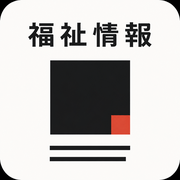
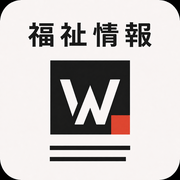
P40-1/2: アイコン差し替え（?v=2キャッシュ対策）・サイド欄スクロールバーを一覧と同じ薄さに＋タブ4案モック
- 新アイコン5ファイル差し替え・参照に版クエリ（favicon専用キャッシュ対策）
- .rail-col の scrollbar-color を .listscroll と統一
- mock-p40-tabs.html: 現行＋案A〜D（判断用・決定後に削除）

Changed region(s): [[0.3333, 0.4167, 0.6667, 0.6944], [0.4167, 0.1389, 0.4444, 0.1944]]

diff --git a/mock-p40-tabs.html b/mock-p40-tabs.html
@@ -1,0 +1,175 @@
+<!doctype html>
+<html lang="ja">
+<head>
+<meta charset="utf-8">
+<meta name="viewport" content="width=device-width, initial-scale=1">
+<title>P40-5 タブ案の比較（モック）</title>
+<style>
+  :root{
+    --ink:#17181a; --sub:#75716b; --faint:#a8a49d; --rule:#e6e3de;
+    --paper:#fcfcfb; --high:#a04a32; --press-bg:#f5f3ef; --box:#f6f5f1;
+  }
+  *{margin:0;padding:0;box-sizing:border-box}
+  body{background:#efede8;color:var(--ink);
+    font-family:"Hiragino Kaku Gothic ProN","Hiragino Sans","BIZ UDPGothic",Meiryo,sans-serif;
+    font-size:16px;line-height:1.7;-webkit-font-smoothing:antialiased;padding:26px 14px 80px}
+  .note{max-width:760px;margin:0 auto 22px;font-size:13px;color:var(--sub);line-height:1.9}
+  .note b{color:var(--ink)}
+  .case{max-width:760px;margin:0 auto 34px;background:var(--paper);
+    border:1px solid var(--rule);padding:0 26px 22px}
+  .case-h{font-size:12px;font-weight:700;letter-spacing:.18em;color:#fff;background:var(--ink);
+    margin:0 -26px 0;padding:7px 14px}
+  .case-note{font-size:12px;color:var(--sub);line-height:1.85;margin-top:14px;
+    border-top:1px dashed var(--rule);padding-top:10px}
+  .case-note b{color:var(--ink)}
+
+  /* ==== 共通の紙面コンテキスト（題字・太罫・日付見出しの冒頭） ==== */
+  .masthead{text-align:center;padding:14px 0 11px;border-bottom:3px double var(--ink)}
+  .masthead h1{font-size:30px;font-weight:700;letter-spacing:.34em;text-indent:.34em;line-height:1.2}
+  .masthead .sub{font-size:10.5px;color:var(--sub);letter-spacing:.16em;margin-top:5px}
+  .ticker{display:flex;align-items:center;gap:10px;background:var(--press-bg);
+    padding:5px 12px;overflow:hidden;margin-top:0}
+  .ticker .tl{flex:0 0 auto;font-size:10px;font-weight:600;letter-spacing:.22em;
+    color:var(--sub);border-right:1px solid var(--rule);padding-right:10px}
+  .ticker .tt{font-size:11.5px;color:var(--ink);white-space:nowrap;overflow:hidden}
+  .dayhead{border-top:2px solid var(--ink);padding-top:12px;margin-top:22px;
+    display:flex;justify-content:space-between;align-items:baseline}
+  .dayhead h2{font-size:26px;letter-spacing:.02em}
+  .dayhead .c{font-size:12.5px;color:var(--sub)}
+  .stub{color:var(--faint);font-size:12.5px;padding:10px 0 0}
+
+  /* ==== 現行（比較用） ==== */
+  .t0{display:flex;gap:8px;padding:8px 0 10px}
+  .t0 button{appearance:none;background:none;font:inherit;cursor:pointer;
+    padding:7px 16px 6px;font-size:13px;letter-spacing:.22em;color:var(--sub);
+    border:1.5px solid var(--rule);white-space:nowrap}
+  .t0 button.on{border-color:var(--ink);background:var(--box);color:var(--ink);font-weight:700}
+
+  /* ==== 案A セグメンテッドコントロール型 ==== */
+  .tA{display:inline-flex;border:1.5px solid var(--ink);margin:8px 0 10px}
+  .tA button{appearance:none;background:var(--paper);font:inherit;cursor:pointer;
+    padding:7px 20px 6px;font-size:13px;letter-spacing:.22em;color:var(--sub);border:0;
+    border-left:1px solid var(--rule);white-space:nowrap}
+  .tA button:first-child{border-left:0}
+  .tA button.on{background:var(--ink);color:#fff;font-weight:700}
+  .tA button:not(.on):hover{color:var(--ink)}
+
+  /* ==== 案B 面名標カード型（フォルダタブ） ==== */
+  .tBwrap{padding:8px 0 0}
+  .tB{display:flex;gap:6px;align-items:flex-end;margin-bottom:-2px;position:relative;z-index:1}
+  .tB button{appearance:none;font:inherit;cursor:pointer;white-space:nowrap;
+    padding:6px 18px 5px;font-size:12.5px;letter-spacing:.22em;color:var(--sub);
+    background:var(--box);border:1px solid var(--rule);border-bottom:0}
+  .tB button.on{background:var(--paper);border:2px solid var(--ink);border-bottom:2px solid var(--paper);
+    color:var(--ink);font-weight:700;padding:8px 18px 6px;font-size:13px}
+  .tB button:not(.on):hover{color:var(--ink)}
+  .tB-rule{border-top:2px solid var(--ink)}
+  .tBwrap .stub{padding-top:12px}
+  /* 案Bでは日付見出しの太罫はタブの罫が兼ねる（二重にしない） */
+  .tBwrap .dayhead{border-top:0;margin-top:0;padding-top:14px}
+
+  /* ==== 案C 角ピル型（角丸は控えめ3px） ==== */
+  .tC{display:flex;gap:10px;padding:8px 0 10px}
+  .tC button{appearance:none;font:inherit;cursor:pointer;white-space:nowrap;
+    padding:7px 20px 6px;font-size:13px;letter-spacing:.22em;color:var(--sub);
+    background:var(--paper);border:1px solid var(--sub);border-radius:999px}
+  .tC button.on{background:var(--ink);border-color:var(--ink);color:#fff;font-weight:700}
+  .tC button:not(.on):hover{color:var(--ink);border-color:var(--ink)}
+
+  /* ==== 案D 押しボタン型（オフセット影＝物理ボタンの意匠） ==== */
+  .tD{display:flex;gap:12px;padding:8px 0 12px}
+  .tD button{appearance:none;font:inherit;cursor:pointer;white-space:nowrap;
+    padding:7px 18px 6px;font-size:13px;letter-spacing:.22em;color:var(--ink);
+    background:var(--paper);border:1px solid var(--ink);
+    box-shadow:2px 2px 0 var(--ink);transform:translate(0,0)}
+  .tD button.on{background:var(--box);font-weight:700;
+    box-shadow:none;transform:translate(2px,2px)}
+  .tD button:not(.on):hover{background:var(--box)}
+</style>
+</head>
+<body>
+
+<div class="note">
+  <b>P40-5 タブ案の比較。</b>各案のタブは押して切り替えられます（選択の見え方を確かめる用）。
+  文言・字送り・墨と朱の2色・角の扱いは本体と同じ条件で組んでいます。
+  これまでに検討済みの「下線式（P29前）・囲み罫（現行C3）・地色」とは別の方向の4案です。
+</div>
+
+<div class="case">
+  <div class="case-h">現行（C3・囲み罫＋地色）── 比較の基準</div>
+  <div class="masthead"><h1>福祉情報ウォッチ</h1><div class="sub">こども家庭庁・厚生労働省・WAM NET・福岡県 ── 行政と全国団体の福祉情報を毎朝ひとまわり</div></div>
+  <nav class="t0 tabs"><button class="on">紙　面</button><button>助　成</button><button>研　修</button></nav>
+  <div class="ticker"><span class="tl">報道</span><span class="tt">介護ニュースJoint　外国人の在留手数料、10月から大幅引き上げ…</span></div>
+  <div class="dayhead"><h2>8月26日 <small style="font-size:13px;color:var(--sub)">（水）</small></h2><span class="c">新着10件</span></div>
+  <div class="stub">（記事一覧…）</div>
+  <div class="case-note">現行: 選択＝墨枠＋薄地＋太字／非選択＝薄罫。「押せる」の合図が枠の濃淡だけ。</div>
+</div>
+
+<div class="case">
+  <div class="case-h">案A　セグメンテッドコントロール型</div>
+  <div class="masthead"><h1>福祉情報ウォッチ</h1><div class="sub">こども家庭庁・厚生労働省・WAM NET・福岡県 ── 行政と全国団体の福祉情報を毎朝ひとまわり</div></div>
+  <nav class="tA tabs"><button class="on">紙　面</button><button>助　成</button><button>研　修</button></nav>
+  <div class="ticker"><span class="tl">報道</span><span class="tt">介護ニュースJoint　外国人の在留手数料、10月から大幅引き上げ…</span></div>
+  <div class="dayhead"><h2>8月26日 <small style="font-size:13px;color:var(--sub)">（水）</small></h2><span class="c">新着10件</span></div>
+  <div class="stub">（記事一覧…）</div>
+  <div class="case-note"><b>3枚が1つの切替器につながる型</b>（iOS/計器類の定番）。外枠は墨1.5px・区切りは薄罫・
+  選択＝墨ベタ白抜き。「3つで1組・今どこか」が構造で伝わる。P29で見送った“単独の墨ベタ”と違い、
+  切替器の中の現在位置なので重心の偏りが出にくい。面が増えたら右に1枚足すだけ。</div>
+</div>
+
+<div class="case">
+  <div class="case-h">案B　面名標カード型（フォルダタブ）</div>
+  <div class="masthead"><h1>福祉情報ウォッチ</h1><div class="sub">こども家庭庁・厚生労働省・WAM NET・福岡県 ── 行政と全国団体の福祉情報を毎朝ひとまわり</div></div>
+  <div class="tBwrap">
+    <nav class="tB tabs"><button class="on">紙　面</button><button>助　成</button><button>研　修</button></nav>
+    <div class="tB-rule"></div>
+    <div class="ticker" style="margin-top:0"><span class="tl">報道</span><span class="tt">介護ニュースJoint　外国人の在留手数料、10月から大幅引き上げ…</span></div>
+    <div class="dayhead"><h2>8月26日 <small style="font-size:13px;color:var(--sub)">（水）</small></h2><span class="c">新着10件</span></div>
+    <div class="stub">（記事一覧…）</div>
+  </div>
+  <div class="case-note"><b>選択中のタブが紙面と物理的につながる型</b>（書類のインデックス・ブラウザのタブ）。
+  選択＝墨2px枠が下の太罫と一体化し「今この面が開いている」を構造で示す。非選択＝薄地で一段奥。
+  紙もの（インデックス付きファイル）の比喩なので新聞の意匠と相性がよい。
+  ⚠タブの罫が面見出しの太罫を兼ねるため、日付見出しの上の太罫は外す（二重罫にしない）。</div>
+</div>
+
+<div class="case">
+  <div class="case-h">案C　ピル型（角丸は控えめ）</div>
+  <div class="masthead"><h1>福祉情報ウォッチ</h1><div class="sub">こども家庭庁・厚生労働省・WAM NET・福岡県 ── 行政と全国団体の福祉情報を毎朝ひとまわり</div></div>
+  <nav class="tC tabs"><button class="on">紙　面</button><button>助　成</button><button>研　修</button></nav>
+  <div class="ticker"><span class="tl">報道</span><span class="tt">介護ニュースJoint　外国人の在留手数料、10月から大幅引き上げ…</span></div>
+  <div class="dayhead"><h2>8月26日 <small style="font-size:13px;color:var(--sub)">（水）</small></h2><span class="c">新着10件</span></div>
+  <div class="stub">（記事一覧…）</div>
+  <div class="case-note"><b>いまのWebで最も「ボタン」と読まれる型</b>（丸み＝押せるの学習が強い）。
+  選択＝墨ベタ白抜き。⚠本体は全要素が直角（border-radius:0）のため、
+  丸をここにだけ持ち込むと新聞の意匠から浮く懸念がある。候補として提示するが推奨はしない。</div>
+</div>
+
+<div class="case">
+  <div class="case-h">案D　押しボタン型（オフセット影）</div>
+  <div class="masthead"><h1>福祉情報ウォッチ</h1><div class="sub">こども家庭庁・厚生労働省・WAM NET・福岡県 ── 行政と全国団体の福祉情報を毎朝ひとまわり</div></div>
+  <nav class="tD tabs"><button>紙　面</button><button class="on">助　成</button><button>研　修</button></nav>
+  <div class="ticker" hidden></div>
+  <div class="dayhead"><h2>いま応募できる助成</h2><span class="c">8件</span></div>
+  <div class="stub">（助成一覧…）</div>
+  <div class="case-note"><b>物理ボタンの型</b>: 非選択＝右下に墨のオフセット影（浮いている＝押せる）／
+  選択＝影が消えて2pxめり込む（押し込まれている）。ボタンであることは4案で最も明瞭。
+  影も墨のみ＝2色は守る。⚠遊びのある意匠なので、報の緊張感とのバランスは好みが分かれる。</div>
+</div>
+
+<div class="note">
+  すべての案で: 墨と朱の2色のみ（朱は使っていない＝選択は墨で示す。朱は「対応が要る」の
+  意味に温存）・幅320pxでも3枚が1行に収まることを確認済み・面が増えたら横スクロール（現行の型）を踏襲可能。
+</div>
+
+<script>
+  document.querySelectorAll(".tabs").forEach((nav) => {
+    nav.addEventListener("click", (e) => {
+      const b = e.target.closest("button");
+      if (!b) return;
+      nav.querySelectorAll("button").forEach((x) => x.classList.toggle("on", x === b));
+    });
+  });
+</script>
+</body>
+</html>

diff --git a/index.html b/index.html
@@ -7,10 +7,12 @@
 <meta name="description" content="福祉に関わる行政の公開情報を毎朝自動巡回し、AIが要約と重要度を付けて記録しています。">
 <!-- P33: アイコン。⚠パスは相対にする（github.io のサブパス配信でもカスタムドメインの
      ルート配信でも同じHTMLが効くように。絶対パス /favicon… はサブパスで404になる） -->
-<link rel="icon" type="image/png" sizes="32x32" href="favicon-32.png">
-<link rel="icon" type="image/png" sizes="16x16" href="favicon-16.png">
-<link rel="apple-touch-icon" href="apple-touch-icon.png">
-<link rel="manifest" href="manifest.webmanifest">
+<!-- ?v=2 はキャッシュ対策(P40)。ファビコンはブラウザが専用キャッシュで長く保持するため、
+     同名で差し替えるときはURL（クエリ）を変えて確実に取り直させる。次回差し替え時は v=3 に -->
+<link rel="icon" type="image/png" sizes="32x32" href="favicon-32.png?v=2">
+<link rel="icon" type="image/png" sizes="16x16" href="favicon-16.png?v=2">
+<link rel="apple-touch-icon" href="apple-touch-icon.png?v=2">
+<link rel="manifest" href="manifest.webmanifest?v=2">
 <style>
   :root{
     --ink:#17181a; --sub:#75716b; --faint:#a8a49d; --rule:#e6e3de;
@@ -238,9 +240,14 @@
     .listscroll::-webkit-scrollbar{width:8px}
     .listscroll::-webkit-scrollbar-thumb{background:var(--rule)}
     .listscroll::-webkit-scrollbar-track{background:transparent}
-    /* サイド欄は独立して貼り付く（P37から継続）。画面より背が高い日は欄内スクロール */
+    /* サイド欄は独立して貼り付く（P37から継続）。画面より背が高い日は欄内スクロール。
+       P40: スクロールバーの濃さは一覧側（.listscroll）と同じ薄さに揃える */
     .rail-col{position:sticky;top:0;align-self:start;
-      max-height:100vh;overflow-y:auto;scrollbar-width:thin}
+      max-height:100vh;overflow-y:auto;scrollbar-width:thin;
+      scrollbar-color:var(--rule) transparent}
+    .rail-col::-webkit-scrollbar{width:8px}
+    .rail-col::-webkit-scrollbar-thumb{background:var(--rule)}
+    .rail-col::-webkit-scrollbar-track{background:transparent}
   }
 
   /* --- 本文 --- */

diff --git a/fukushi-watch-handoff.md b/fukushi-watch-handoff.md
@@ -345,55 +345,7 @@
 
 > P30の記録は fukushi-watch-archive-2026-08.md へ原文のまま移設した（維持規則・2026-08-26）。
 
-## 2026-08-25（P31・助成面の再調整5点）
-
-- **[DECISION] タブは案C系統の「C3」で実装**（選択中＝墨1.5px枠＋薄い地色#f6f5f1＋太字／
-  非選択＝薄い罫の枠＋薄墨・**数字は廃止**）。ユーザーの返答は「案C」で、C1/C2/C3のうち
-  推奨したC3と解釈して実装した。⚠**C1へは `.view.on` の background を外すだけ、
-  C2へは `.view` の border-color を transparent にするだけ**で移れる（CSSコメントに明記）。
-  4面×320pxで折り返さず横スクロールになることを実測。タブは固定ヘッダーの外＝86px不変。
-- **[DECISION] スマホの絞り込みは、分野・用途を**ネイティブの `<select>` 2つ**で左右に一列**
-  （ユーザー指示・OSの選択UIで選ぶ形）。P29のアコーディオンは廃止。閉じていても値が
-  select自体に見える。**PCは1行チップを維持**（全選択肢が一覧でき1クリックで切替できるため）。
-  チップとselectは同じ state を読み書きし、双方向に同期する（出し分けはCSSの幅だけ）。
-  ⚠**selectの文字は16pxにする**（16px未満だとiOSがフォーカス時に画面を拡大する・
-  落とし穴チェックリスト）。
-- **[DECISION] UIのラベルは最小限にする（今後も適用する一般原則・ユーザー指示）。**
-  文脈から予想できる語は書かない。実施: 社会福祉法人トグルのラベルを
-  「社会福祉法人が応募できるものだけ」→**「社会福祉法人」だけ**にした（PC・スマホ共通）。
-  意味の説明はサイド欄の注意書きが担う。
-- **[DECISION] 明滅は2秒周期・濃度1⇄0.25に**（P30の4秒・1⇄0.5から。ユーザー指示の
-  「2倍の速さ・2倍の濃さ」）。reduced-motion の静止は維持。
-- **[DECISION] 注意書きはサイド欄（スマホはメニュー内）の「記号の見かた」の隣に畳んで置く**
-  （P30の「絞り込みと項目の間に畳む」は不採用・ユーザー判断）。凡例と注意書きは同じ性質
-  （読み方の説明）のため。`#boxGrantNote`＝助成面のときだけ表示。
-  各項目の「応募の条件」展開内の注記は維持（そちらが実際に読まれる場所）。
-- **[DECISION] 社会福祉法人トグルは既定オン**（使用者は基本的に社会福祉法人のため）。
-  **保存値がある人はそれを尊重**——`APPLI_KEY` はトグルを実際に触ったときにしか書かれないので、
-  保存値＝本人の明示的な選択。無い人だけ既定オン（`?? "1"` の1行）。
-- **[DECISION] トグルの意味を「記載なしは表示」に変えた（重要な仕様修正）。**
-  ⚠従来の実装は**記載なし（applicants空）もトグルで落としていた**——P31の指示にあった
-  「現在の仕様（記載なしは表示）」という認識と**逆**だった。既定オン化とセットで、
-  **落とすのは「応募主体が読み取れていて社会福祉法人を含まない」ものだけ**に修正。
-  理由: ①空＝「読み取れなかった」であって「応募できない」ではない（P24の意味づけ）
-  ②旧仕様のまま既定オンにすると10件中3件しか出ず、「対象なのに見えない」がP28で警告した
-  実害そのものになる。実測: 既定オンで**8件／全10件**（隠れるのは認定NPO・アジア生協の
-  「社福を含まない明記あり」2件だけ。小児医療など記載なし5件は表示）。
-- **[DECISION] 「記載なしは表示」への仕様修正はユーザーが追認**（2026-08-25・②の回答）。
-  経緯（指示の前提が実際と逆だった件）は「生きている注意事項」に教訓として昇格。
-- **[DECISION] 既定状態（トグルON・分野/用途すべて）の件数は「8件 ── 内訳」だけにする**
-  （「／ 全10件」の後置は**分野・用途で絞ったときだけ**出す）。
-  理由: 既定オンのため常時「絞り込み表示」になってうるさい。トグルの絞りは
-  **チェックボックスがオンであること自体が状態の表示**であり（ユーザーの理屈）、
-  外せば全件に戻ることで隠れている項目の存在も確認できる＝完全に隠してはいない。
-  スマホの「絞り込み中: …」見出しはアコーディオン廃止とともに消えている。
-- ★ 検証: 既定オン8件・保存値"0"の尊重・記載なし表示・注意書きの位置（PC=サイド欄／
-  スマホ=メニュー内・既定閉・紙面では非表示）・明滅2s・select⇄チップの双方向同期・
-  select行が320pxでも1行・4面タブの横スクロールを機械確認。
-  PC1280/375/320 × 文字3段階で横スクロールなし・86px不変・紙面側（24項目）回帰なし。
-- ★ 教訓（検証の型）: **renderGrants はチップを describe し直すので、クリック前に取った
-  要素参照は再描画で無効になる**。連続クリックの検証は毎回要素を取り直すこと
-  （古い参照のclickは委譲リスナーに届かず、「効いていない」ように見える）。
+> P31の記録は fukushi-watch-archive-2026-08.md へ原文のまま移設した（維持規則・2026-08-26）。
 
 ## 2026-08-25（P32・表示の修正3点）
 
@@ -749,6 +701,24 @@
 - ★ 検証残り物の注意: プログラムでの window.scrollTo 検証後に**サイド欄の内部scrollTopが
   349残っていた**（見た目の食い違いの一因になる）。検証でスクロールを触ったら
   rail.scrollTop=0 まで戻すこと（localStorage後始末と同じ扱い）。
+
+## 2026-08-26（P40・5点の改修。**1・2完了／3・4・5は判断・案の提示で停止中**）
+
+- **1（アイコン差し替え）完了**: ユーザー提供の5ファイル（apple-touch-icon/icon-192/512/
+  favicon-32/16）を差し替え・寸法検証済み。**キャッシュ対策は必要と判断し、参照に `?v=2` を付けた**
+  （ファビコンはブラウザが専用キャッシュで長く保持し、同名差し替えでは古いまま残るため。
+  index.html の4リンク＋manifestの2src。**次回差し替え時は v=3 に上げる**）。
+  ⚠iOSのホーム画面に追加済みのアイコンは自動更新されない（再追加が必要）。
+- **2（スクロールバー）完了**: サイド欄に一覧側と同じ `scrollbar-color:var(--rule) transparent`
+  ＋webkit系を追加。濃さが揃ったことを計算値で確認。
+- ⏸ **3（日付ナビの1行化＋月移動）**: 月移動案（日付見出しを押すと月の一覧）への判断を報告して
+  停止中。⚠1行化は月移動の決定と不可分（現行の月セレクトが消える行にあるため）＝セットで実装する。
+- ⏸ **4（◆◇◊の廃止）**: 賛成の判断と影響箇所の列挙を報告して停止中。
+  ⚠実装時の要点: ◆は高セクションの唯一の朱の合図なので、**廃止時は「高」の文字に朱を移す**。
+  メール（mail-template.js の section マーク）も体系を揃えるか要確認。
+- ⏸ **5（タブ案）**: `mock-p40-tabs.html`（リポジトリ直下・公開URLで見られる）に
+  現行＋4案（A=セグメンテッド／B=面名標カード／C=ピル／D=押しボタン）。判断待ち。
+  ⚠モックはユーザーの決定後に削除する（P29の作法）。
 
 ---
 

diff --git a/fukushi-watch-archive-2026-08.md b/fukushi-watch-archive-2026-08.md
@@ -975,3 +975,53 @@
   まずタブを前面化してから測る（実装の不合格と混同しない・鉄則4）。
 - mock-p29.html を削除した（P29本体の実機確認後に削除する、というユーザー指示に従った。
   P30の指摘は実機で本体を見た上でのものなので条件成立と判断）。
+
+## 2026-08-25（P31・助成面の再調整5点）
+
+- **[DECISION] タブは案C系統の「C3」で実装**（選択中＝墨1.5px枠＋薄い地色#f6f5f1＋太字／
+  非選択＝薄い罫の枠＋薄墨・**数字は廃止**）。ユーザーの返答は「案C」で、C1/C2/C3のうち
+  推奨したC3と解釈して実装した。⚠**C1へは `.view.on` の background を外すだけ、
+  C2へは `.view` の border-color を transparent にするだけ**で移れる（CSSコメントに明記）。
+  4面×320pxで折り返さず横スクロールになることを実測。タブは固定ヘッダーの外＝86px不変。
+- **[DECISION] スマホの絞り込みは、分野・用途を**ネイティブの `<select>` 2つ**で左右に一列**
+  （ユーザー指示・OSの選択UIで選ぶ形）。P29のアコーディオンは廃止。閉じていても値が
+  select自体に見える。**PCは1行チップを維持**（全選択肢が一覧でき1クリックで切替できるため）。
+  チップとselectは同じ state を読み書きし、双方向に同期する（出し分けはCSSの幅だけ）。
+  ⚠**selectの文字は16pxにする**（16px未満だとiOSがフォーカス時に画面を拡大する・
+  落とし穴チェックリスト）。
+- **[DECISION] UIのラベルは最小限にする（今後も適用する一般原則・ユーザー指示）。**
+  文脈から予想できる語は書かない。実施: 社会福祉法人トグルのラベルを
+  「社会福祉法人が応募できるものだけ」→**「社会福祉法人」だけ**にした（PC・スマホ共通）。
+  意味の説明はサイド欄の注意書きが担う。
+- **[DECISION] 明滅は2秒周期・濃度1⇄0.25に**（P30の4秒・1⇄0.5から。ユーザー指示の
+  「2倍の速さ・2倍の濃さ」）。reduced-motion の静止は維持。
+- **[DECISION] 注意書きはサイド欄（スマホはメニュー内）の「記号の見かた」の隣に畳んで置く**
+  （P30の「絞り込みと項目の間に畳む」は不採用・ユーザー判断）。凡例と注意書きは同じ性質
+  （読み方の説明）のため。`#boxGrantNote`＝助成面のときだけ表示。
+  各項目の「応募の条件」展開内の注記は維持（そちらが実際に読まれる場所）。
+- **[DECISION] 社会福祉法人トグルは既定オン**（使用者は基本的に社会福祉法人のため）。
+  **保存値がある人はそれを尊重**——`APPLI_KEY` はトグルを実際に触ったときにしか書かれないので、
+  保存値＝本人の明示的な選択。無い人だけ既定オン（`?? "1"` の1行）。
+- **[DECISION] トグルの意味を「記載なしは表示」に変えた（重要な仕様修正）。**
+  ⚠従来の実装は**記載なし（applicants空）もトグルで落としていた**——P31の指示にあった
+  「現在の仕様（記載なしは表示）」という認識と**逆**だった。既定オン化とセットで、
+  **落とすのは「応募主体が読み取れていて社会福祉法人を含まない」ものだけ**に修正。
+  理由: ①空＝「読み取れなかった」であって「応募できない」ではない（P24の意味づけ）
+  ②旧仕様のまま既定オンにすると10件中3件しか出ず、「対象なのに見えない」がP28で警告した
+  実害そのものになる。実測: 既定オンで**8件／全10件**（隠れるのは認定NPO・アジア生協の
+  「社福を含まない明記あり」2件だけ。小児医療など記載なし5件は表示）。
+- **[DECISION] 「記載なしは表示」への仕様修正はユーザーが追認**（2026-08-25・②の回答）。
+  経緯（指示の前提が実際と逆だった件）は「生きている注意事項」に教訓として昇格。
+- **[DECISION] 既定状態（トグルON・分野/用途すべて）の件数は「8件 ── 内訳」だけにする**
+  （「／ 全10件」の後置は**分野・用途で絞ったときだけ**出す）。
+  理由: 既定オンのため常時「絞り込み表示」になってうるさい。トグルの絞りは
+  **チェックボックスがオンであること自体が状態の表示**であり（ユーザーの理屈）、
+  外せば全件に戻ることで隠れている項目の存在も確認できる＝完全に隠してはいない。
+  スマホの「絞り込み中: …」見出しはアコーディオン廃止とともに消えている。
+- ★ 検証: 既定オン8件・保存値"0"の尊重・記載なし表示・注意書きの位置（PC=サイド欄／
+  スマホ=メニュー内・既定閉・紙面では非表示）・明滅2s・select⇄チップの双方向同期・
+  select行が320pxでも1行・4面タブの横スクロールを機械確認。
+  PC1280/375/320 × 文字3段階で横スクロールなし・86px不変・紙面側（24項目）回帰なし。
+- ★ 教訓（検証の型）: **renderGrants はチップを describe し直すので、クリック前に取った
+  要素参照は再描画で無効になる**。連続クリックの検証は毎回要素を取り直すこと
+  （古い参照のclickは委譲リスナーに届かず、「効いていない」ように見える）。
